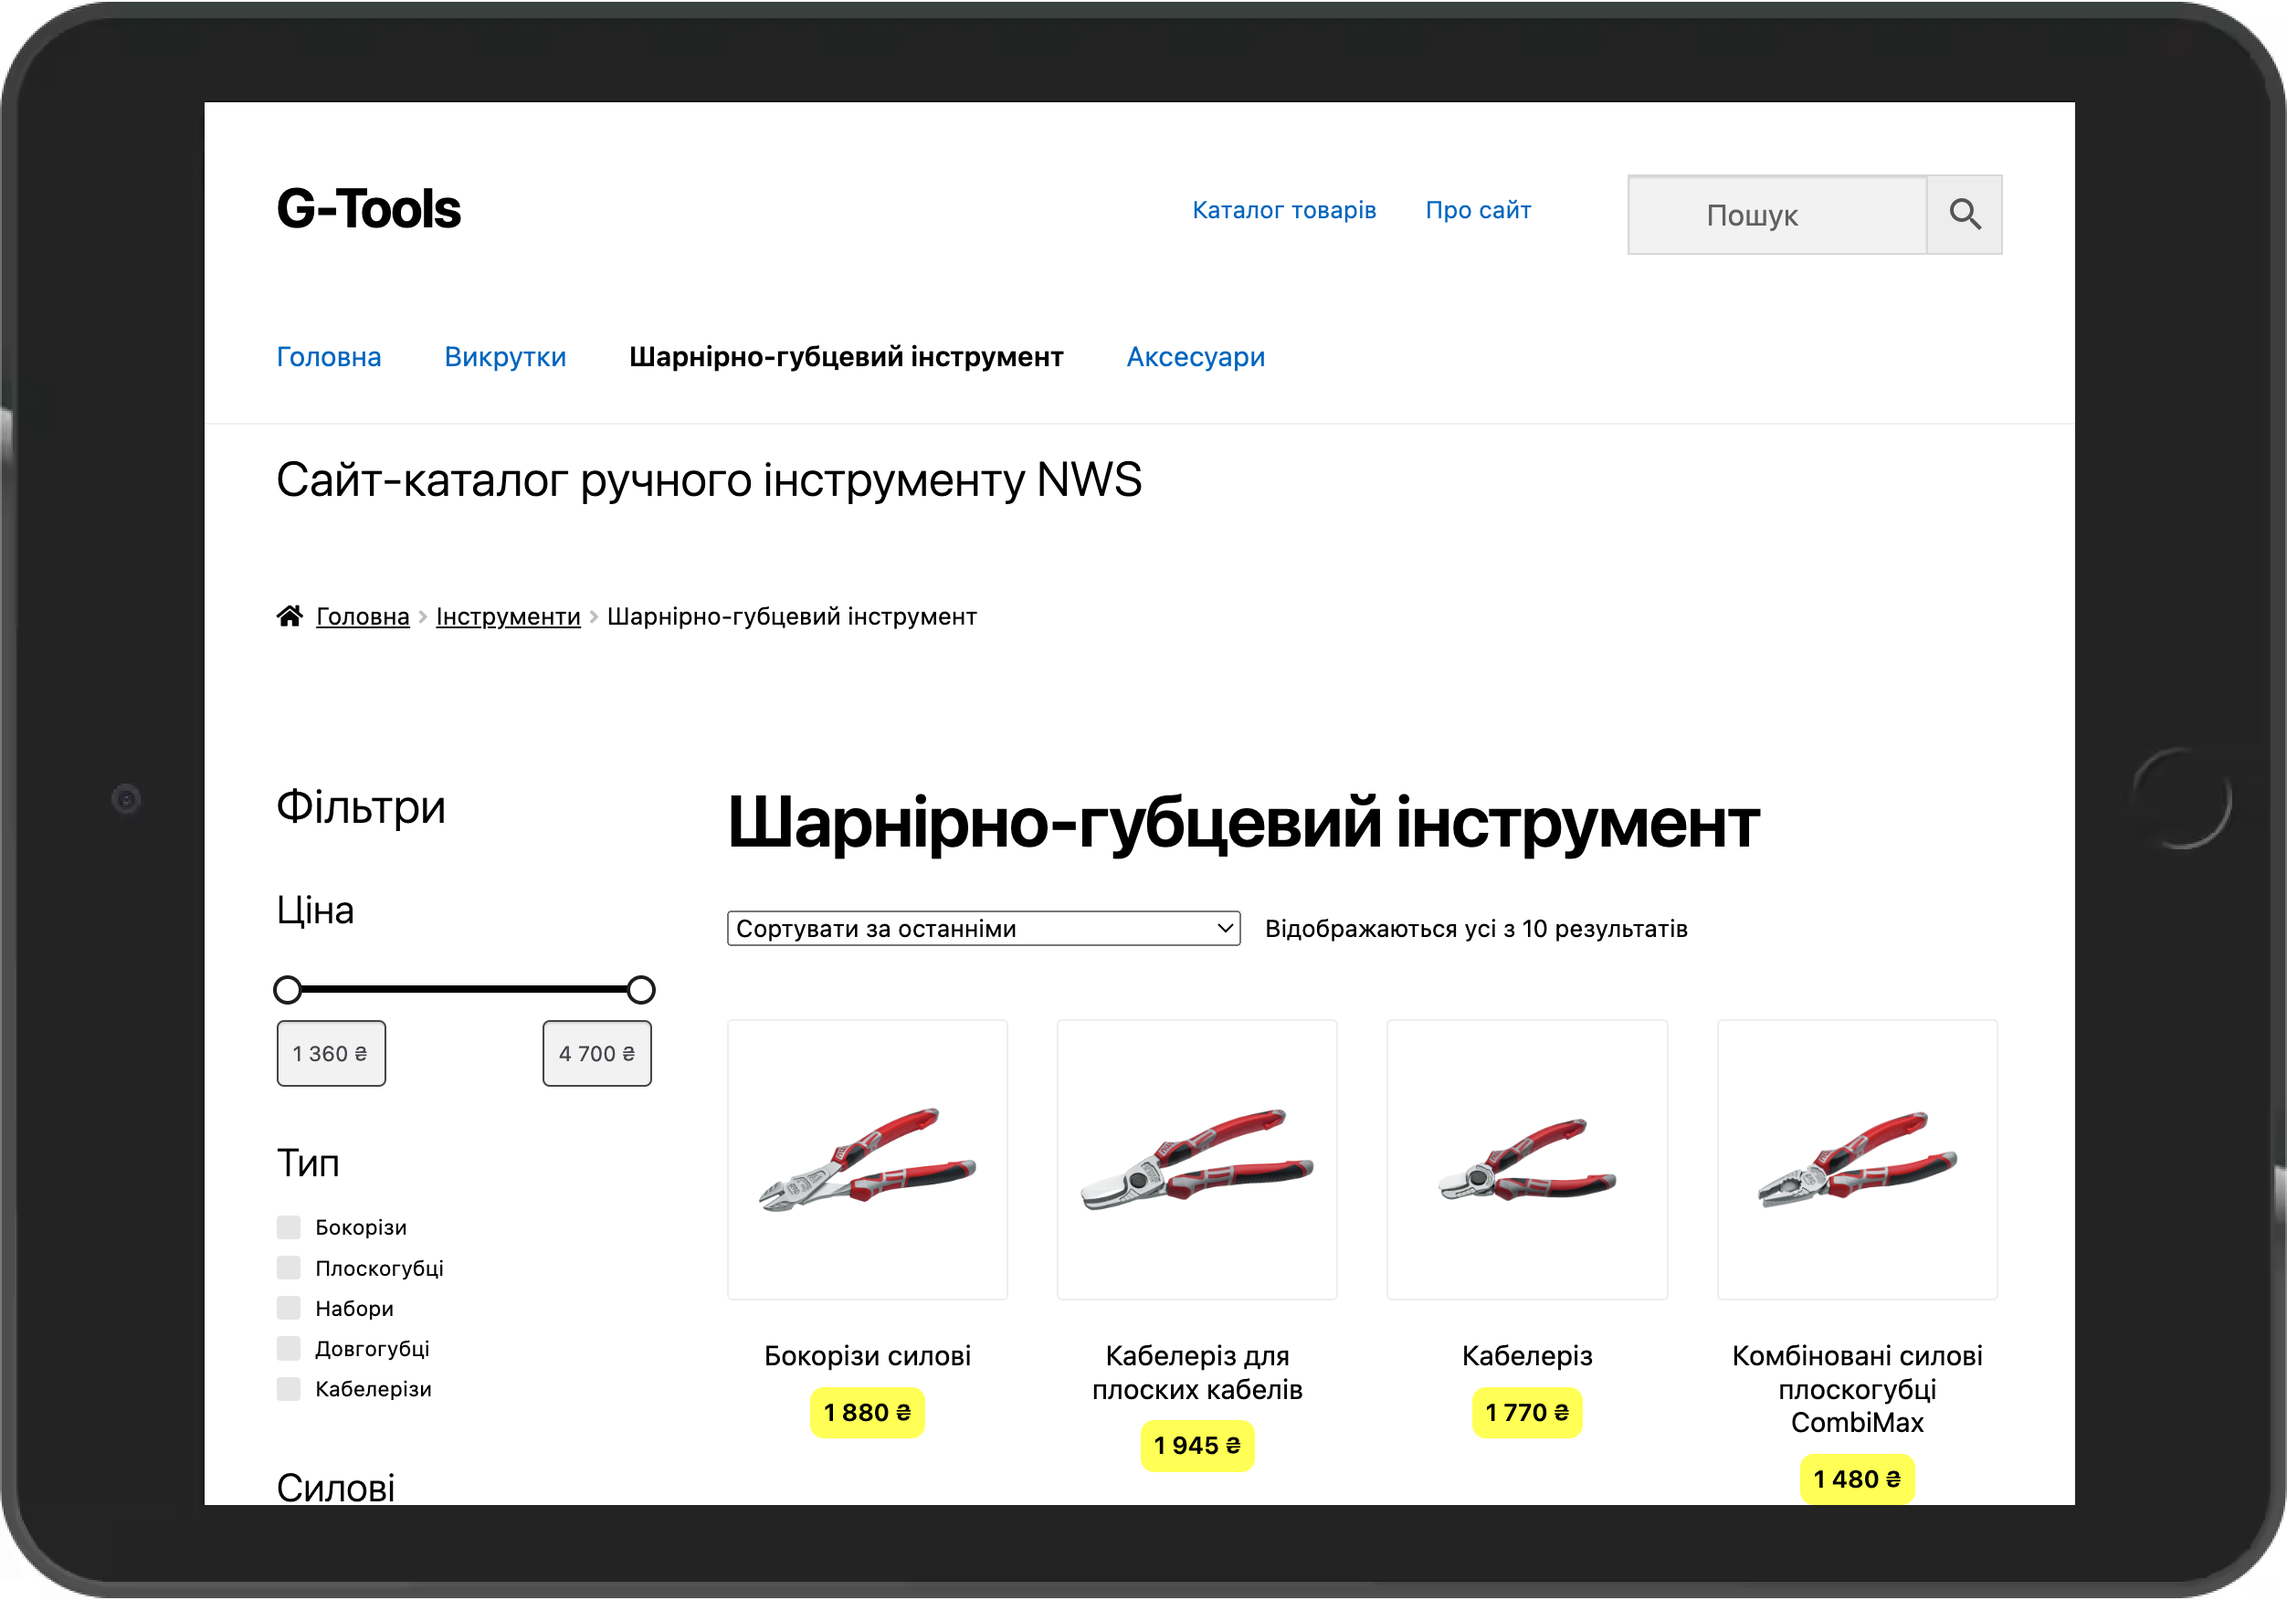
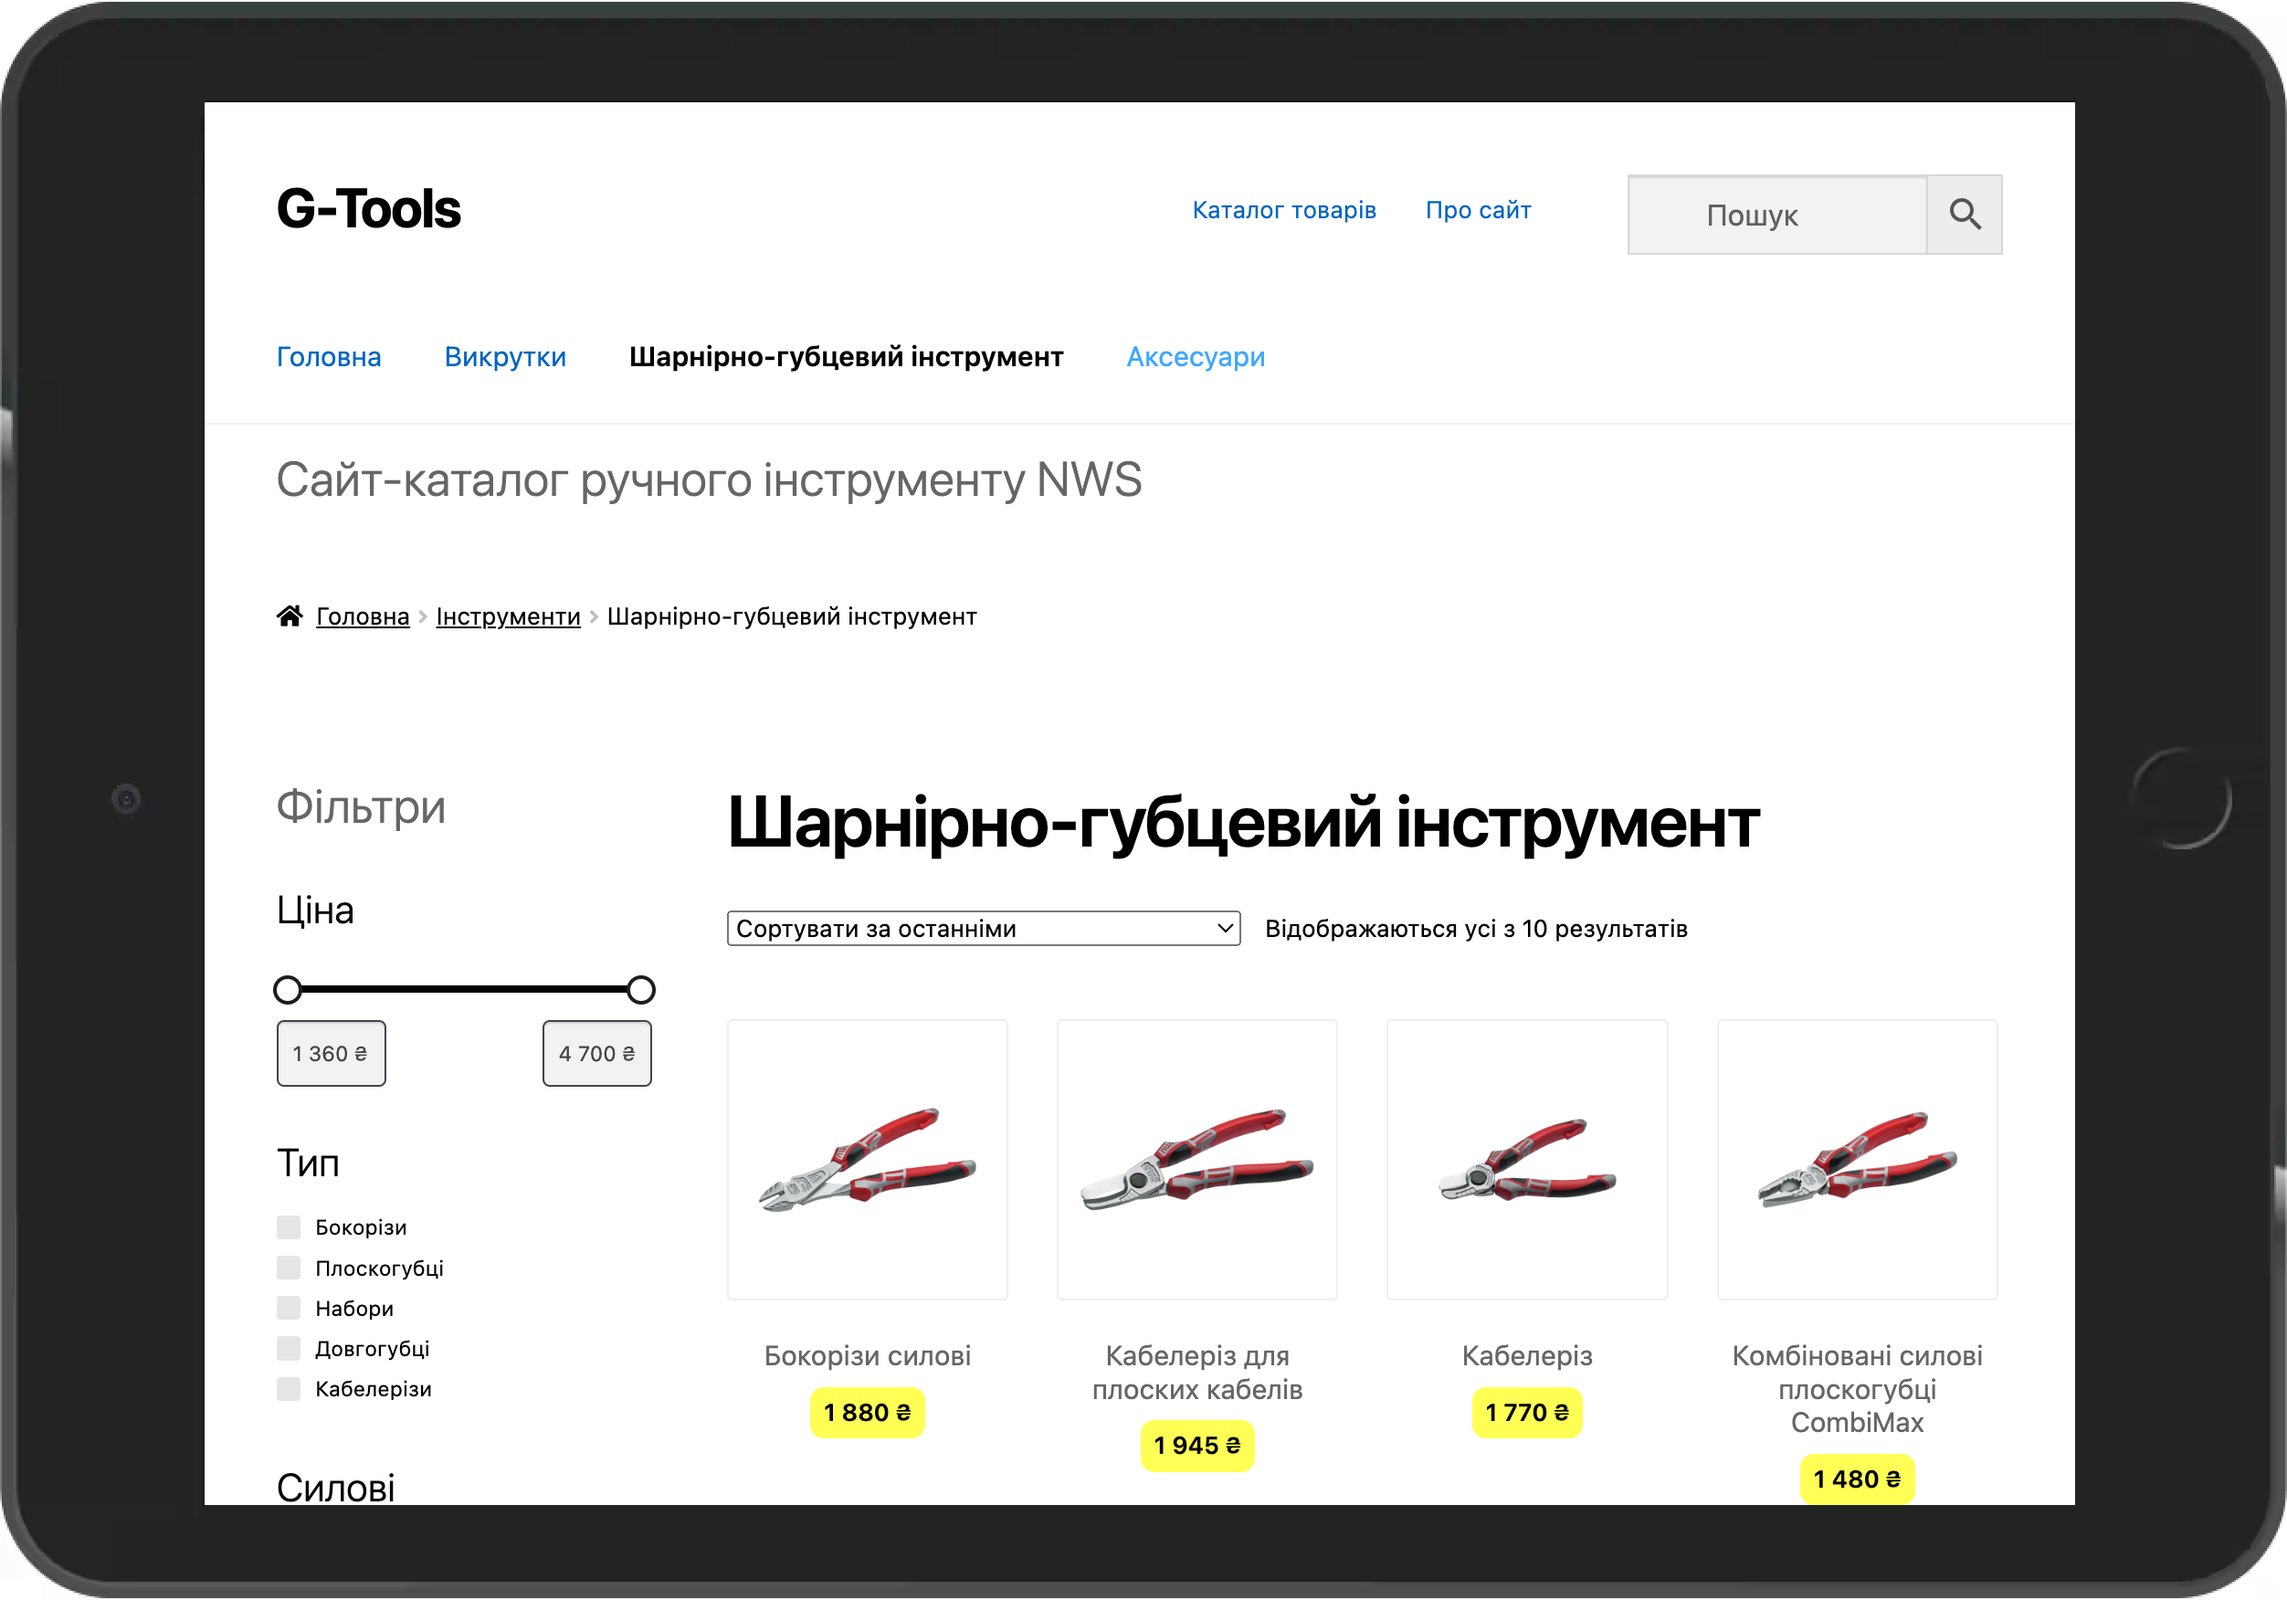
v2 text imgs css

diff --git a/index.html b/index.html
@@ -58,8 +58,8 @@
     
 <div class="ak_clear_1"></div>
 <ul>
-    <li>Локація: Київ · офіс/віддалено.</li>
-    <li>Військова служба: чинна відстрочка.</li>
+    <li>Локація: Київ · офіс/віддалено</li>
+    <li>Військова служба: чинна відстрочка</li>
     <li><a href="tel:+380992620563">+380 99 262-05-63</a></li>
     <li><a href="mailto:olks.krvchk@gmail.com">olks.krvchk@gmail.com</a></li>
     <li><a href="https://www.facebook.com/akrvchk">Facebook</a> · <a href="https://t.me/akrvchk">Telegram</a></li>
@@ -70,7 +70,10 @@
 <h2 class="">Про себе</h2>
 <div class="ak_clear_15"></div>
     
-<p>Маю практичний досвід роботи з інтерфейсами, текстами та дизайном. Тепер застосовую його у e-commerce. Зосереджуюся на контент-менеджменті й управлінні товарними каталогами.</p>
+<p>Маю практичний досвід роботи з інтерфейсами, текстами та дизайном. Тепер застосовую ці навички в e-commerce. Зосереджуюся на контент-менеджменті й управлінні товарними каталогами.</p>
+    
+<p>Отримав <a href="https://simpli.app.link/XIxBHPJjg6b" target="_blank">сертифікат онлайн-курсу Google Sheets</a>.</p>
+    
 <p>Мені подобається системний підхід і увага до деталей. Я глибоко вивчаю предмет, перш ніж стати до роботи.</p>
 
 <p>Народився в Києві у 1981 році в родині професійних музикантів.</p>
@@ -86,7 +89,7 @@
 <div class="ak_clear_15"></div>
     
 <p>Проєкт охоплює повний цикл роботи з товарним каталогом — від підготовки даних до публікації на сайті.</p>
-<p>Сайт розгорнуто локально на WordPress + WooCommerce. Інтерфейс оформлено за допомогою власного CSS.</p>
+<p>Сайт розгорнуто локально на WordPress + WooCommerce. Тему Storefront стилізовано за допомогою <a href="https://docs.google.com/document/d/1HLJ0mIX9fG2vpU1oZt_c95KUX0r_1UpuAnC9NJnjk74/edit?usp=sharing" target="_blank">власного CSS</a>.</p>
     
 <div class="ak_clear_2"></div>
     
@@ -144,7 +147,7 @@
 <div class="ak_clear_15"></div>
     
 <h4>Фріланс, дотепер</h4>
-<p>Виконував, зокрема, аудит сайтів, структурування текстів, створення графічного матеріалу — із використанням ШІ та без.</p>
+<p>Створював та систематизував матеріали, виконував аудит IT-продуктів та консультування, доопрацював дизайн створений за допомогою ШІ. </p>
 
 <div class="ak_clear_1"></div>
 <h4>Hexagon, 2019</h4>
@@ -229,7 +232,7 @@
 <div class="ak_clear_1"></div>
 <h4>Додаткове навчання</h4>
 <ul>
-<li><a href="https://simpli.app.link/XIxBHPJjg6b" target="_blank">Онлайн-курс Google Sheets</a> від Simplilearn</li>
+<li>Онлайн-курс Google Sheets від Simplilearn</li>
 <li>Projector, Школа візуальних комунікацій, Київська академія медіа мистецтв</li>
 <li>Тренінг персональної ефективності «Лідер-клас»</li>
 </ul>

diff --git a/css/ak-custom.css b/css/ak-custom.css
@@ -215,6 +215,7 @@ h4 + ul {
 a {
     text-decoration: none;
     color: #004e88;
+    border-bottom: 1px solid #cddce8;
     }
 
 a:hover {
